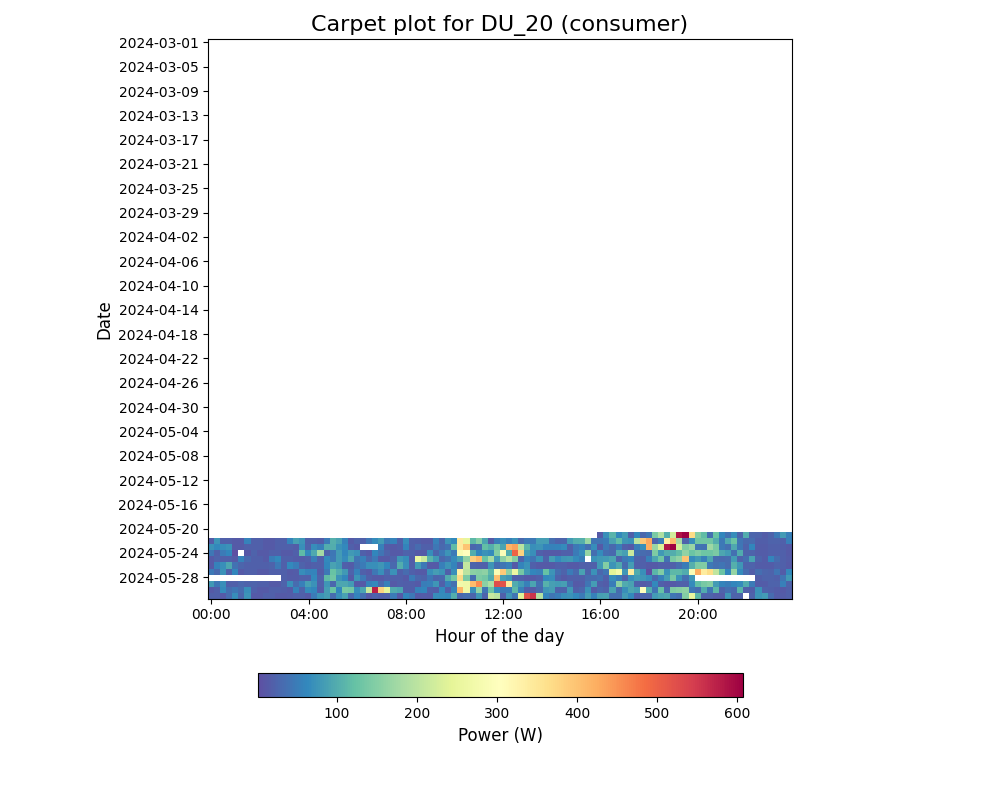
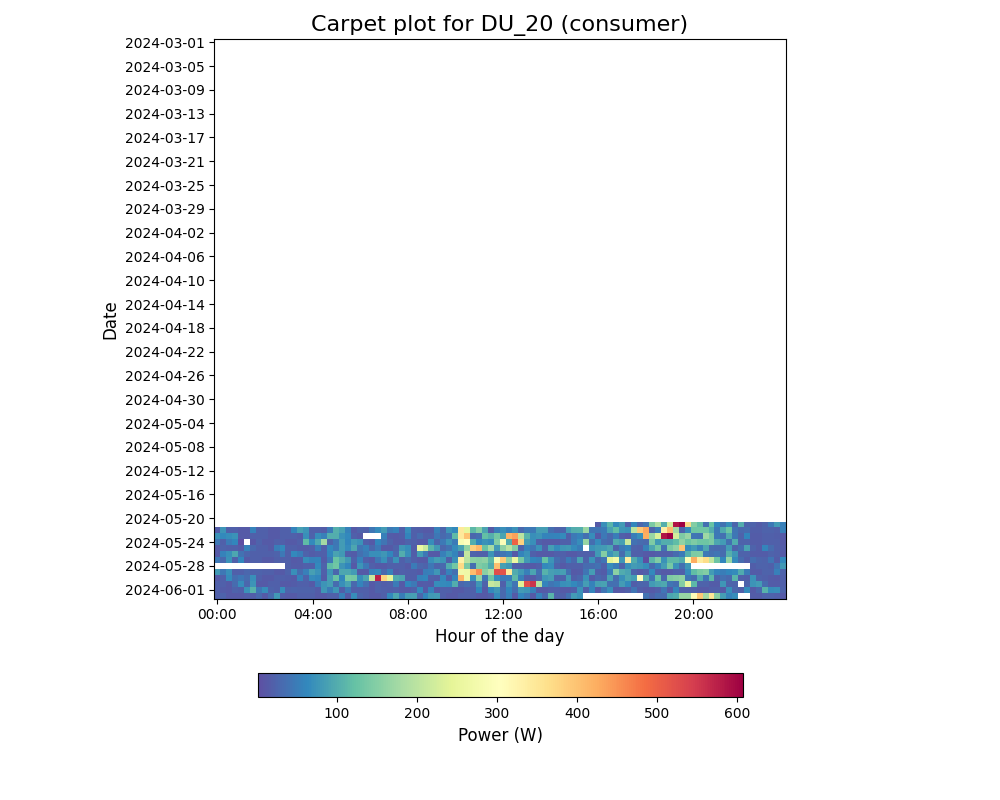
feat(clustering): first implementation of clustering + update visualization

Changed region(s): [[0.093, 0.0312, 0.806, 0.7812]]

diff --git a/src/clustering.py b/src/clustering.py
@@ -1,0 +1,79 @@
+from building import load_anguillara
+import pandas as pd
+from sklearn.cluster import KMeans
+from sklearn.metrics import silhouette_score
+import matplotlib.pyplot as plt
+import seaborn as sns
+
+building_list = load_anguillara()
+
+# Obtain an unique dataframe appending all the load profiles for each consumer
+
+df_dict = {}
+
+for building in building_list:
+    if building.building_info["user_type"] == "consumer":
+        data = building.energy_meter.data.copy()
+        data["timestamp"] = pd.to_datetime(data["timestamp"])
+        data.set_index("timestamp", inplace=True)
+        data = data.resample("H").mean()
+        data_pivot = data.pivot_table(index=data.index.date, columns=data.index.strftime("%H:%M"), values="Net", dropna=True)
+        # Normalize the data using Z-score
+        data_pivot = (data_pivot - data_pivot.mean()) / data_pivot.std()
+        data_pivot["building"] = building.building_info["name"]
+        # Divide into weekdays and weekends
+        data_pivot.index = pd.to_datetime(data_pivot.index)
+        data_pivot["weekday"] = data_pivot.index.weekday
+        data_pivot["day_type"] = "Weekday"
+        data_pivot.loc[data_pivot["weekday"] >= 5, "day_type"] = "Weekend"
+        data_pivot.drop(columns=["weekday"], inplace=True)
+        df_dict[building.building_info["name"]] = data_pivot
+
+df = pd.concat(df_dict.values())
+
+kmeans = KMeans(n_clusters=10, random_state=0)
+kmeans.fit(df[df.columns[:23]])
+df["cluster"] = kmeans.labels_
+
+# Plot the load profiles for each cluster
+
+fig, ax = plt.subplots(figsize=(12, 5), ncols=5, nrows=2)
+hour_labels = df.columns[:23:4]
+
+for i in range(10):
+    axes = ax[i // 5, i % 5]
+    cluster = df[df["cluster"] == i].drop(columns=["cluster", "building", "day_type"])
+    centroid = cluster.mean()
+    # Take also the first and third quartile
+    q1 = cluster.quantile(0.25)
+    q3 = cluster.quantile(0.75)
+    for idx, row in cluster.iterrows():
+        load_profile_line, = axes.plot(row.index, row.values, color="grey", alpha=0.2)
+    centroid_line, = axes.plot(centroid.index, centroid.values, color="red", label="Centroid")
+    q1_line = axes.plot(q1.index, q1.values, color="blue", linestyle="--", label="Q1")
+    q3_line = axes.plot(q3.index, q3.values, color="green", linestyle="--", label="Q3")
+    axes.set_title(f"Cluster {i}")
+    axes.set_xlabel("Hour of the day", fontsize=12)
+    axes.set_ylabel("Power (kW)", fontsize=12)
+    plt.xticks()
+    axes.set_xticks(range(0, 23, 4))
+
+# Extract the legend from the last subplot
+handles, labels = axes.get_legend_handles_labels()
+fig.legend(handles, labels, loc="lower center", bbox_to_anchor=(0.5, 0.01), fontsize=12, ncol=5, fancybox=True, shadow=True)
+plt.tight_layout(rect=(0, 0.08, 1, 0.98))
+plt.show()
+
+# Calculate the percentage of load profiles as weekday and weekend in each cluster
+day_type_count = df.groupby(["cluster", "day_type"]).size().unstack().fillna(0).apply(lambda x: x / x.sum(), axis=1)
+# Stacked bar plot of the day_type_count
+day_type_count.plot(kind="bar", stacked=True)
+plt.show()
+
+
+cluster_counts = df["cluster"].value_counts(normalize=True).sort_index()
+
+# df = df.groupby("cluster").filter(lambda x: len(x) / len(df) > 0.05)
+building_cluster = df.groupby("building")["cluster"].value_counts(dropna=False).unstack(fill_value=0)
+
+silhouette_score = silhouette_score(df[df.columns[:23]], kmeans.labels_)

diff --git a/src/building.py b/src/building.py
@@ -30,8 +30,6 @@ class Building:
             "coordinates": None,
         }
         self.get_building_info()
-        if self.building_info["name"] == "DU_3" or self.building_info["name"] == "DU_17" or self.building_info["name"] == "DU_11" or self.building_info["name"] == "DU_19" or self.building_info["name"] == "DU_12":
-            self.building_info["user_type"] = "consumer"
         self.energy_meter = EnergyMeter(uuid, get_data_mode)
         self.energy_meter.pre_process_energy_data(self.building_info["user_type"], self.building_info["id"])
         self.energy_meter.define_load_components()
@@ -186,7 +184,7 @@ def load_anguillara(mode="offline"):
 
     DU_1 = Building("7436df46-294b-4c97-bd1b-8aaa3aed97c5", get_data_mode=mode)
     DU_2 = Building("80c3bedd-8c41-450c-ae52-1864b9ace7aa", get_data_mode=mode)
-    DU_3 = Building("b8296a26-2a08-417b-92d3-41e37f6a956e", get_data_mode=mode)
+    # DU_3 = Building("b8296a26-2a08-417b-92d3-41e37f6a956e", get_data_mode=mode)
     DU_4 = Building("d93552c8-e7f6-45bb-b382-bd4a2b969502", get_data_mode=mode)
     DU_5 = Building("b87be67b-8133-4b7f-a045-c06da08b5416", get_data_mode=mode)
     DU_6 = Building("9a3386b3-017c-4848-ac6d-a24bf7f36077", get_data_mode=mode)
@@ -194,6 +192,12 @@ def load_anguillara(mode="offline"):
     DU_8 = Building("08f2fc03-ce0b-4cd6-ab25-8b3906feb858", get_data_mode=mode)
     DU_9 = Building("3d956901-f5ea-4094-9c85-333cc68183d4", get_data_mode=mode)
     DU_10 = Building("4ef8599c-2c4b-433e-94c8-ca48e23a5a07", get_data_mode=mode)
+
+    return [DU_1, DU_2,
+            # DU_3,
+            DU_4, DU_5, DU_6, DU_7, DU_8, DU_9, DU_10]
+
+def load_garda(mode="offline"):
     # DU_11 = Building("903a9b98-8c2c-49f9-a31d-9a398c4fafb3", get_data_mode=mode)
     # DU_12 = Building("a99641a4-5da6-4922-a6ea-d578847a094d", get_data_mode=mode)
     DU_13 = Building("d91a0269-386f-4486-854d-a1e11405d97d", get_data_mode=mode)
@@ -202,14 +206,16 @@ def load_anguillara(mode="offline"):
     DU_16 = Building("8ae1b59c-a5af-4036-9469-db8a12ba1427", get_data_mode=mode)
     # DU_17 = Building("12eefaba-1024-4883-97a1-719f3b8e2c96", get_data_mode=mode)
     DU_18 = Building("eaaa2a7f-9631-4869-b33a-fca820464b41", get_data_mode=mode)
-    DU_19 = Building("0af9a404-635f-43d7-82bf-064981cb0145", get_data_mode=mode)
+    # DU_19 = Building("0af9a404-635f-43d7-82bf-064981cb0145", get_data_mode=mode)
     DU_20 = Building("5b434307-b3ce-4580-86de-e0b74c8da2b8", get_data_mode=mode)
 
-    return [DU_1, DU_2, DU_3, DU_4, DU_5, DU_6, DU_7, DU_8, DU_9, DU_10,
-            # DU_11, DU_12,
-            DU_13, DU_14, DU_15, DU_16,  # DU_17,
-            DU_18, DU_19, DU_20]
+    return [# DU_11, DU_12,
+        DU_13, DU_14, DU_15, DU_16,  # DU_17,
+        DU_18,
+        # DU_19,
+        DU_20]
 
 
 if __name__ == "__main__":
-    load_anguillara(mode="offline")
+    anguillara = load_anguillara(mode="offline")
+    garda = load_garda(mode="offline")

diff --git a/analysis/base_viz.py b/analysis/base_viz.py
@@ -2,11 +2,11 @@ import os
 import pandas as pd
 import numpy as np
 import matplotlib.pyplot as plt
-from src.building import load_anguillara
+from src.building import load_anguillara, load_garda
 from settings import PROJECT_ROOT
 
 
-building_list = load_anguillara()
+building_list = load_garda()
 
 for building in building_list:
     data = building.energy_meter.data.copy()
@@ -25,9 +25,9 @@ for building in building_list:
     for i, (name, group) in enumerate(groups):
         axes = ax[i]
         day_groups = group.groupby(group["timestamp"].dt.date)
-        centroid = group.groupby("hour")["Load"].mean()
+        centroid = group.groupby("hour")["Net"].mean()
         for date, day in day_groups:
-            load_profile_line, = axes.plot(day["hour"], day["Load"], color="grey", alpha=0.2, label="Load profile")
+            load_profile_line, = axes.plot(day["hour"], day["Net"], color="grey", alpha=0.2, label="Load profile")
             axes.set_title(name)
             axes.set_xlabel("Hour of the day", fontsize=12)
             axes.set_ylabel("Power (W)", fontsize=12)
@@ -50,6 +50,7 @@ for building in building_list:
 
 for building in building_list:
     data = building.energy_meter.data.copy()
+    data["timestamp"] = pd.to_datetime(data["timestamp"])
     time_range = pd.date_range(start="2024-03-01T00:00:00Z", end=data["timestamp"].max().strftime('%Y-%m-%dT%H:%M:%SZ'), freq="15min")
     data = data.merge(pd.DataFrame(time_range, columns=["timestamp"]), on="timestamp", how="right")
     data["timestamp"] = pd.to_datetime(data["timestamp"])
@@ -75,10 +76,11 @@ for building in building_list:
     plt.show()
     plt.close(fig)
 
-time_range = pd.date_range(start="2024-03-01T00:00:00Z", end=data["timestamp"].max().strftime('%Y-%m-%dT%H:%M:%SZ'), freq="15min")
 for building in building_list:
     data = building.energy_meter.energy_meter_data.copy()
     data["timestamp"] = pd.to_datetime(data["timestamp"])
+    time_range = pd.date_range(start="2024-03-01T00:00:00Z", end=data["timestamp"].max().strftime('%Y-%m-%dT%H:%M:%SZ'),
+                               freq="15min")
     data = data.merge(pd.DataFrame(time_range, columns=["timestamp"]), on="timestamp", how="right")
     data["timestamp"] = pd.to_datetime(data["timestamp"])
     data["date"] = data["timestamp"].dt.date

diff --git a/analysis/base_viz_aggregate.py b/analysis/base_viz_aggregate.py
@@ -1,10 +1,10 @@
 import os
 import pandas as pd
 import matplotlib.pyplot as plt
-from src.building import load_anguillara
+from src.building import load_anguillara, load_garda
 from settings import PROJECT_ROOT
 
-building_list = load_anguillara()
+building_list = load_garda()
 
 df_list = []
 for building in building_list:
@@ -23,7 +23,7 @@ ax.set_xlabel("Date", fontsize=12)
 ax.set_ylabel("Power (W)", fontsize=12)
 ax.set_title("Anguillara aggregate", fontsize=18)
 fig.legend(bbox_to_anchor=(1, 0.5), loc='center right', fontsize=12, ncol=1, fancybox=True, shadow=True)
-plt.savefig(os.path.join(PROJECT_ROOT, "figures", "aggregate_anguillara.png"))
+plt.savefig(os.path.join(PROJECT_ROOT, "figures", "aggregate_garda.png"))
 plt.show()
 
 time_range = pd.date_range(start="2024-03-01T00:00:00Z", end=data["timestamp"].max().strftime('%Y-%m-%dT%H:%M:%SZ'),
@@ -45,6 +45,6 @@ plt.ylabel('Power [W]', fontsize=14)
 plt.title('Stacked Area Plot for Anguillara aggregate', fontsize=18)
 plt.legend(bbox_to_anchor=(0.5, -0.28), loc='lower center', fontsize=12, ncol=10, fancybox=True, shadow=True)
 plt.tight_layout(rect=(0, 0.01, 1, 1))
-plt.savefig(os.path.join(PROJECT_ROOT, "figures", "aggregate", "stacked_area_plot_anguillara.png"))
+plt.savefig(os.path.join(PROJECT_ROOT, "figures", "aggregate", "stacked_area_plot_garda.png"))
 plt.show()
 plt.close(fig)
